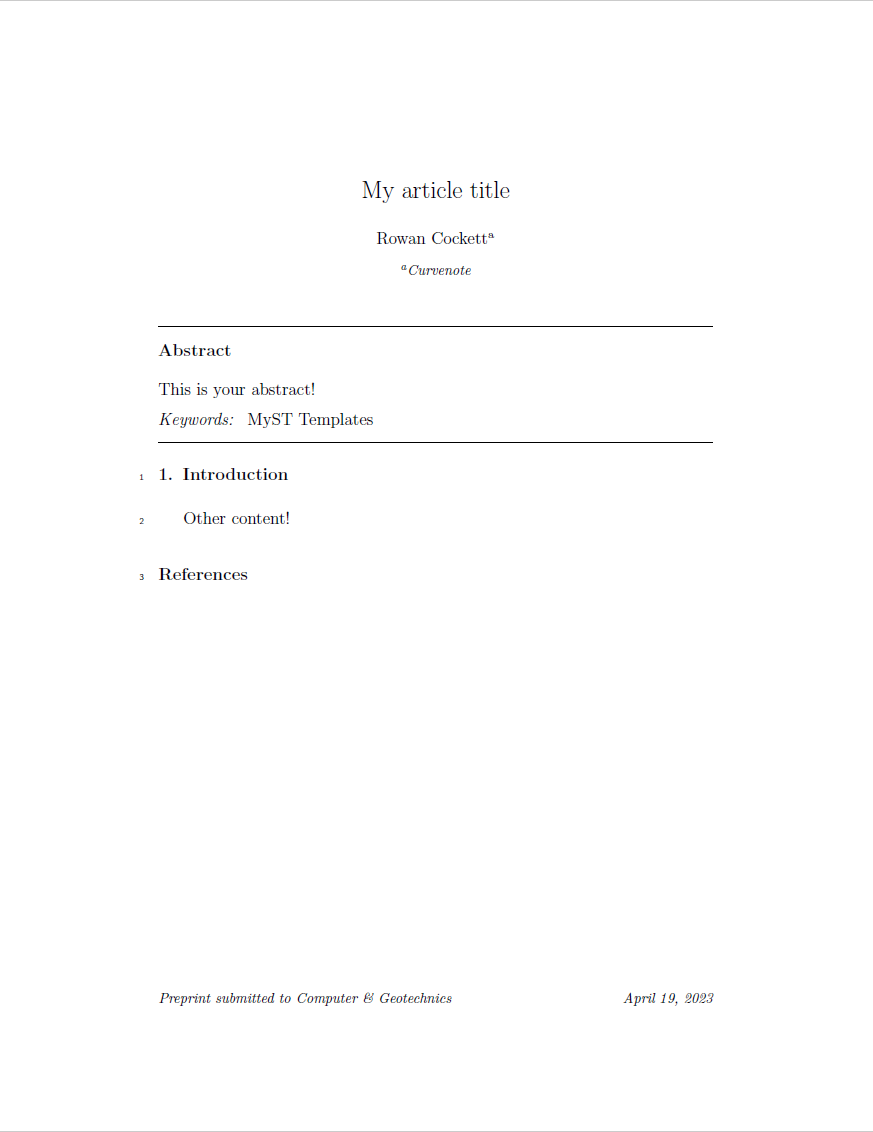
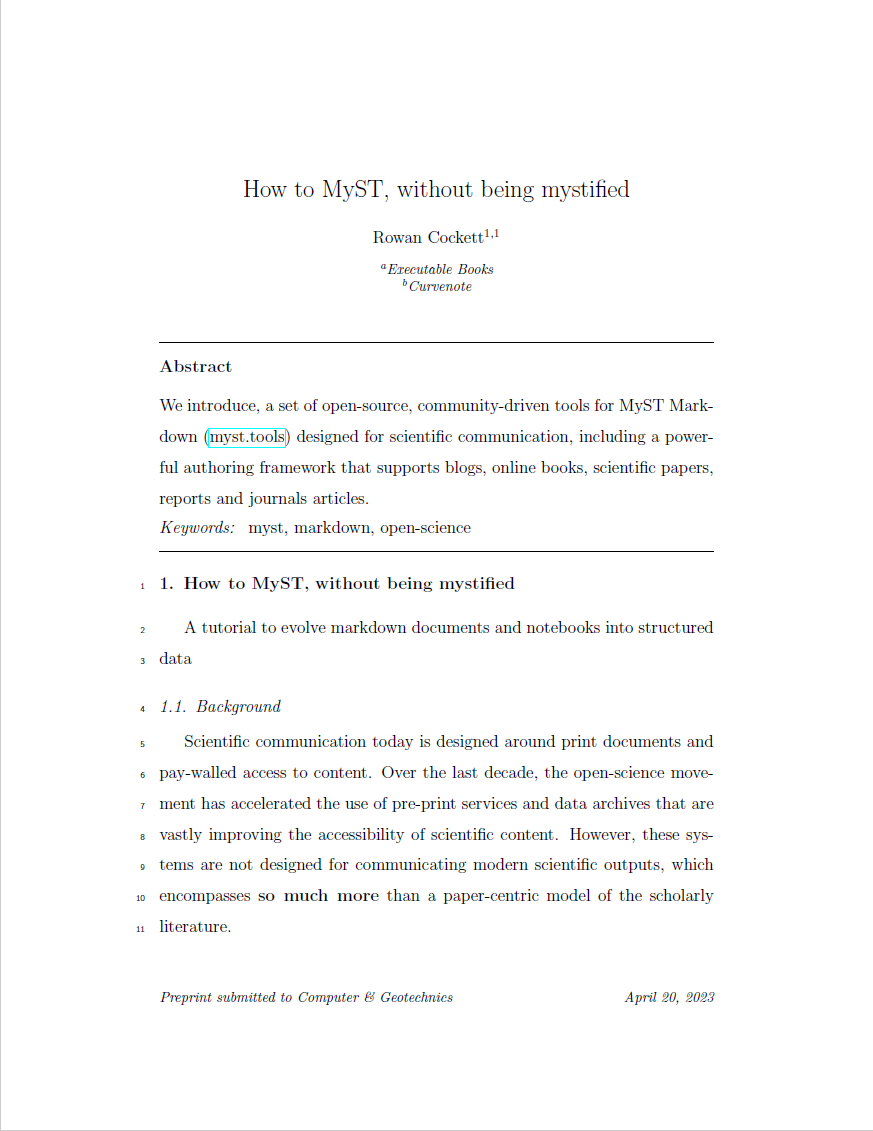
Update the example to the myst getting started document

diff --git a/example/example.md b/example/example.md
@@ -1,0 +1,126 @@
+---
+title: How to MyST, without being mystified
+subject: Tutorial
+subtitle: Evolve your markdown documents into structured data
+short_title: How to MyST
+authors:
+  - name: Rowan Cockett
+    affiliations:
+      - Executable Books
+      - Curvenote
+    orcid: 0000-0002-7859-8394
+    email: rowan@curvenote.com
+license: CC-BY-4.0
+keywords: myst, markdown, open-science
+exports:
+  - format: tex
+    template: .. # The folder with your template.yml in it
+    style: review
+    reference_style: num
+    journal_name: Computer \& Geotechnics
+    lineno: true
+  - format: pdf
+    template: ..
+    style: review
+    reference_style: num
+    journal_name: Computer \& Geotechnics
+    lineno: true
+---
+
++++ {"part": "abstract"}
+
+We introduce, a set of open-source, community-driven tools for MyST Markdown ([myst.tools](https://myst.tools)) designed for scientific communication, including a powerful authoring framework that supports blogs, online books, scientific papers, reports and journals articles.
+
++++
+
+# How to MyST, without being mystified
+
+A tutorial to evolve markdown documents and notebooks into structured data
+
+## Background
+
+Scientific communication today is designed around print documents and pay-walled access to content. Over the last decade, the open-science movement has accelerated the use of pre-print services and data archives that are vastly improving the accessibility of scientific content. However, these systems are not designed for communicating modern scientific outputs, which encompasses **so much more** than a paper-centric model of the scholarly literature.
+
+> We believe how we share and communicate scientific knowledge should evolve past the status quo of print-based publishing and all the limitations of paper.
+
+The communication and collaboration tools that we are building in the ExecutableBooks project are built to follow the FORCE11 recommendations [](doi:10.4230/DAGMAN.1.1.41). Specifically:
+
+1. rethink the unit and form of scholarly publication;
+2. develop tools and technologies to better support the scholarly lifecycle; and
+3. add data, software, and workflows as first-class research objects.
+
+By bringing professional, high-quality tools for science communication into the research lifecycle, we believe we can improve the collection and preservation of scholarly metadata (citations, cross-references, annotations, etc.) as well as open up new ways to communicate science with interactive figures & equations, computation, and reactivity.
+
+The tools that are being built by the ExecutableBooks project are focused on introducing a new Markup language, MyST (Markedly Structured Text), that works seamlessly with the Jupyter community to enhance and promote a new path to document creation and publishing for next-generation scientific textbooks, blogs, and lectures. Our team is currently supported by the [Sloan Foundation](https://sloan.org), ([Grant #9231](https://sloan.org/grant-detail/9231)).
+
+MyST enables rich content generation and is a powerful format for scientific and technical communication. JupyterBook uses MyST and has broad adoption in publishing tutorials and educational content focused around Jupyter Notebooks.
+
+> The components behind Jupyter Book are downloaded 30,000 times a day, with 750K downloads last month.
+
+The current toolchain used by [JupyterBook] is based on [Sphinx], which is an open-source documentation system used in many software projects, especially in the Python ecosystem. `mystjs` is a similar tool to [Sphinx], however, designed specifically for scientific communication. In addition to building websites, `mystjs` can also help you create scientific PDFs, Microsoft Word documents, and JATS XML (used in scientific publishing).
+
+`mystjs` uses existing, modern web-frameworks in place of the [Sphinx] build system. These tools come out-of-the-box with prefetching for faster navigation, smaller network payloads through modern web-bundlers, image optimization, partial-page refresh through single-page application. Many of these features, performance and accessibility improvements are difficult, if not impossible, to create inside of the [Sphinx] build system.
+
+In 2022, the Executable Books team started work to document the specification behind the markup language, called [myst-spec](https://github.com/executablebooks/myst-spec), this work has enabled other tools and implementations in the scientific ecosystem to build on MyST (e.g. [scientific authoring tools](https://curvenote.com/for/writing), and [documentation systems](https://blog.readthedocs.com/jupyter-book-read-the-docs/)).
+
+The `mystjs` ecosystem was developed as a collaboration between [Curvenote], [2i2c] and the [ExecutableBooks] team. The initial version of `mystjs` was originally release by [Curvenote] as the [Curvenote CLI](https://curvenote.com/docs/cli) under the MIT license, and transferred to the [ExecutableBooks] team in October 2022. The goal of the project is to enable the same rich content and authoring experiences that [Sphinx] allows for software documentation, with a focus on web-first technologies (Javascript), interactivity, accessibility, scientific references (e.g. DOIs and other persistent IDs), professional PDF outputs, and JATS XML documents for scientific archiving.
+
+## MyST Project
+
+In this paper we introduce `mystjs`, which allows the popular MyST Markdown syntax to be run directly in a web browser, opening up new workflows for components to be used in web-based editors, [directly in Jupyter](https://github.com/executablebooks/jupyterlab-myst) and in JupyterLite. The libraries work with current MyST Markdown documents/projects and can export to [LaTeX/PDF](https://myst.tools/docs/mystjs/creating-pdf-documents), [Microsoft Word](https://myst.tools/docs/mystjs/creating-word-documents) and [JATS](https://myst.tools/docs/mystjs/creating-jats-xml) as well as multiple website templates using a [modern](https://myst.tools/docs/mystjs/accessibility-and-performance) React-based renderer. There are currently over 400 scientific journals that are supported through [templates](https://github.com/myst-templates), with [new LaTeX templates](https://myst.tools/docs/jtex/create-a-latex-template) that can be added easily using a Jinja-based templating package, called [jtex](https://myst.tools/docs/jtex).
+
+In our paper we will give an overview of the MyST ecosystem, how to use MyST tools in conjunction with existing Jupyter Notebooks, markdown documents, and JupyterBooks to create professional PDFs and interactive websites, books, blogs and scientific articles. We give special attention to the additions around structured data, standards in publishing (e.g. efforts in representing Notebooks as JATS XML), rich [frontmatter](https://myst.tools/docs/mystjs/frontmatter) and bringing [cross-references](https://myst.tools/docs/mystjs/cross-references) and [persistent IDs](https://myst.tools/docs/mystjs/external-references) to life with interactive hover-tooltips ([ORCID, RoR](https://myst.tools/docs/mystjs/frontmatter), [RRIDs](https://myst.tools/docs/mystjs/external-references#research-resource-identifiers), [DOIs](https://myst.tools/docs/mystjs/citations), [intersphinx](https://myst.tools/docs/mystjs/external-references#intersphinx), [wikipedia](https://myst.tools/docs/mystjs/external-references#wikipedia-links), [JATS](https://myst.tools/docs/mystjs/typography), [GitHub code](https://myst.tools/docs/mystjs/external-references#github-links), and more!). This rich metadata and structured content can be used directly to improve science communication both through self-publishing books, blogs, and lab websites — as well as journals that incorporate Jupyter Notebooks.
+
+## Features of MyST
+
+MyST is focused on scientific writing, and ensuring that citations are first class both for writing and for reading (see [](#citations)).
+
+```{figure} ./images/citations.png
+:name: citations
+
+Citations are rendered with a popup directly inline.
+```
+
+MyST aims to show as much information in context as possible, for example, [](#equations) shows a reading experience for a referenced equation: you can immediately **click on the reference**, see the equation, all without loosing any context -- ultimately saving you time. [](doi:10.1145/3411764.3445648) found that these ideas both improved the overall reading experience of articles as well as allowed researchers to answer questions about an article **26% faster** when compared to a traditional PDF!
+
+```{figure} ./images/equations.gif
+:name: equations
+
+In context cross-references improve the reading experience.
+```
+
+One of the important underlying goals of practicing reproducibility, sharing more of the methods and data behind a scientific work so that other researchers can both verify as well as build upon your findings. One of the exciting ways to pull for reproducibility is to make documents directly linked to data and computation! In [](#interactive), we are showing outputs from a Jupyter Notebook directly part of the published scientific narrative.
+
+```{figure} ./images/interactive.gif
+:name: interactive
+
+Embedding data, interactivity and computation into a MyST article.
+```
+
+To drive all of these features, the contents of a MyST document needs to be well defined. This is critical for powering interactive hovers, linked citations, and compatibility with scientific publishing standards like the Journal Article Metadata Tag Suite (JATS). We have an emerging specification for MyST, [`myst-spec`](https://spec.myst.tools), that aims to capture this information and transform it between many different formats, like PDF, Word, JSON, and JATS XML ([](#structured-data)). This specification is arrived at through a community-centric MyST Enhancement Proposal ([MEP](https://compass.executablebooks.org/en/latest/meps.html)) process.
+
+```{figure} ./images/structured-data.gif
+:name: structured-data
+
+The data behind MyST is **structured**, which means we can transform it into many different document types and use it to power all sorts of exciting features!
+```
+
+One of the common forms of scientific communication today is through PDF documents. MyST has excellent support for creating PDF documents, using a data-driven templating library called `jtex`. The document in [](#pdf-two-column) was created using MyST!
+
+```{figure} ./images/pdf-two-column.png
+:name: pdf-two-column
+
+A PDF rendering through MyST.
+```
+
+## Conclusion
+
+There are many opportunities to improve open-science communication, to make it more interactive, accessible, more reproducible, and both produce and use structured data throughout the research-writing process. The `mystjs` ecosystem of tools is designed with structured data at its core. We would love if you gave it a try -- learn to get started at <https://myst.tools>.
+
+[2i2c]: https://2i2c.org/
+[curvenote]: https://curvenote.com
+[docutils]: https://docutils.sourceforge.io/
+[executablebooks]: https://executablebooks.org/
+[jupyterbook]: https://jupyterbook.org/
+[jupyterlab-myst]: https://github.com/executablebooks/jupyterlab-myst
+[sphinx]: https://www.sphinx-doc.org/
